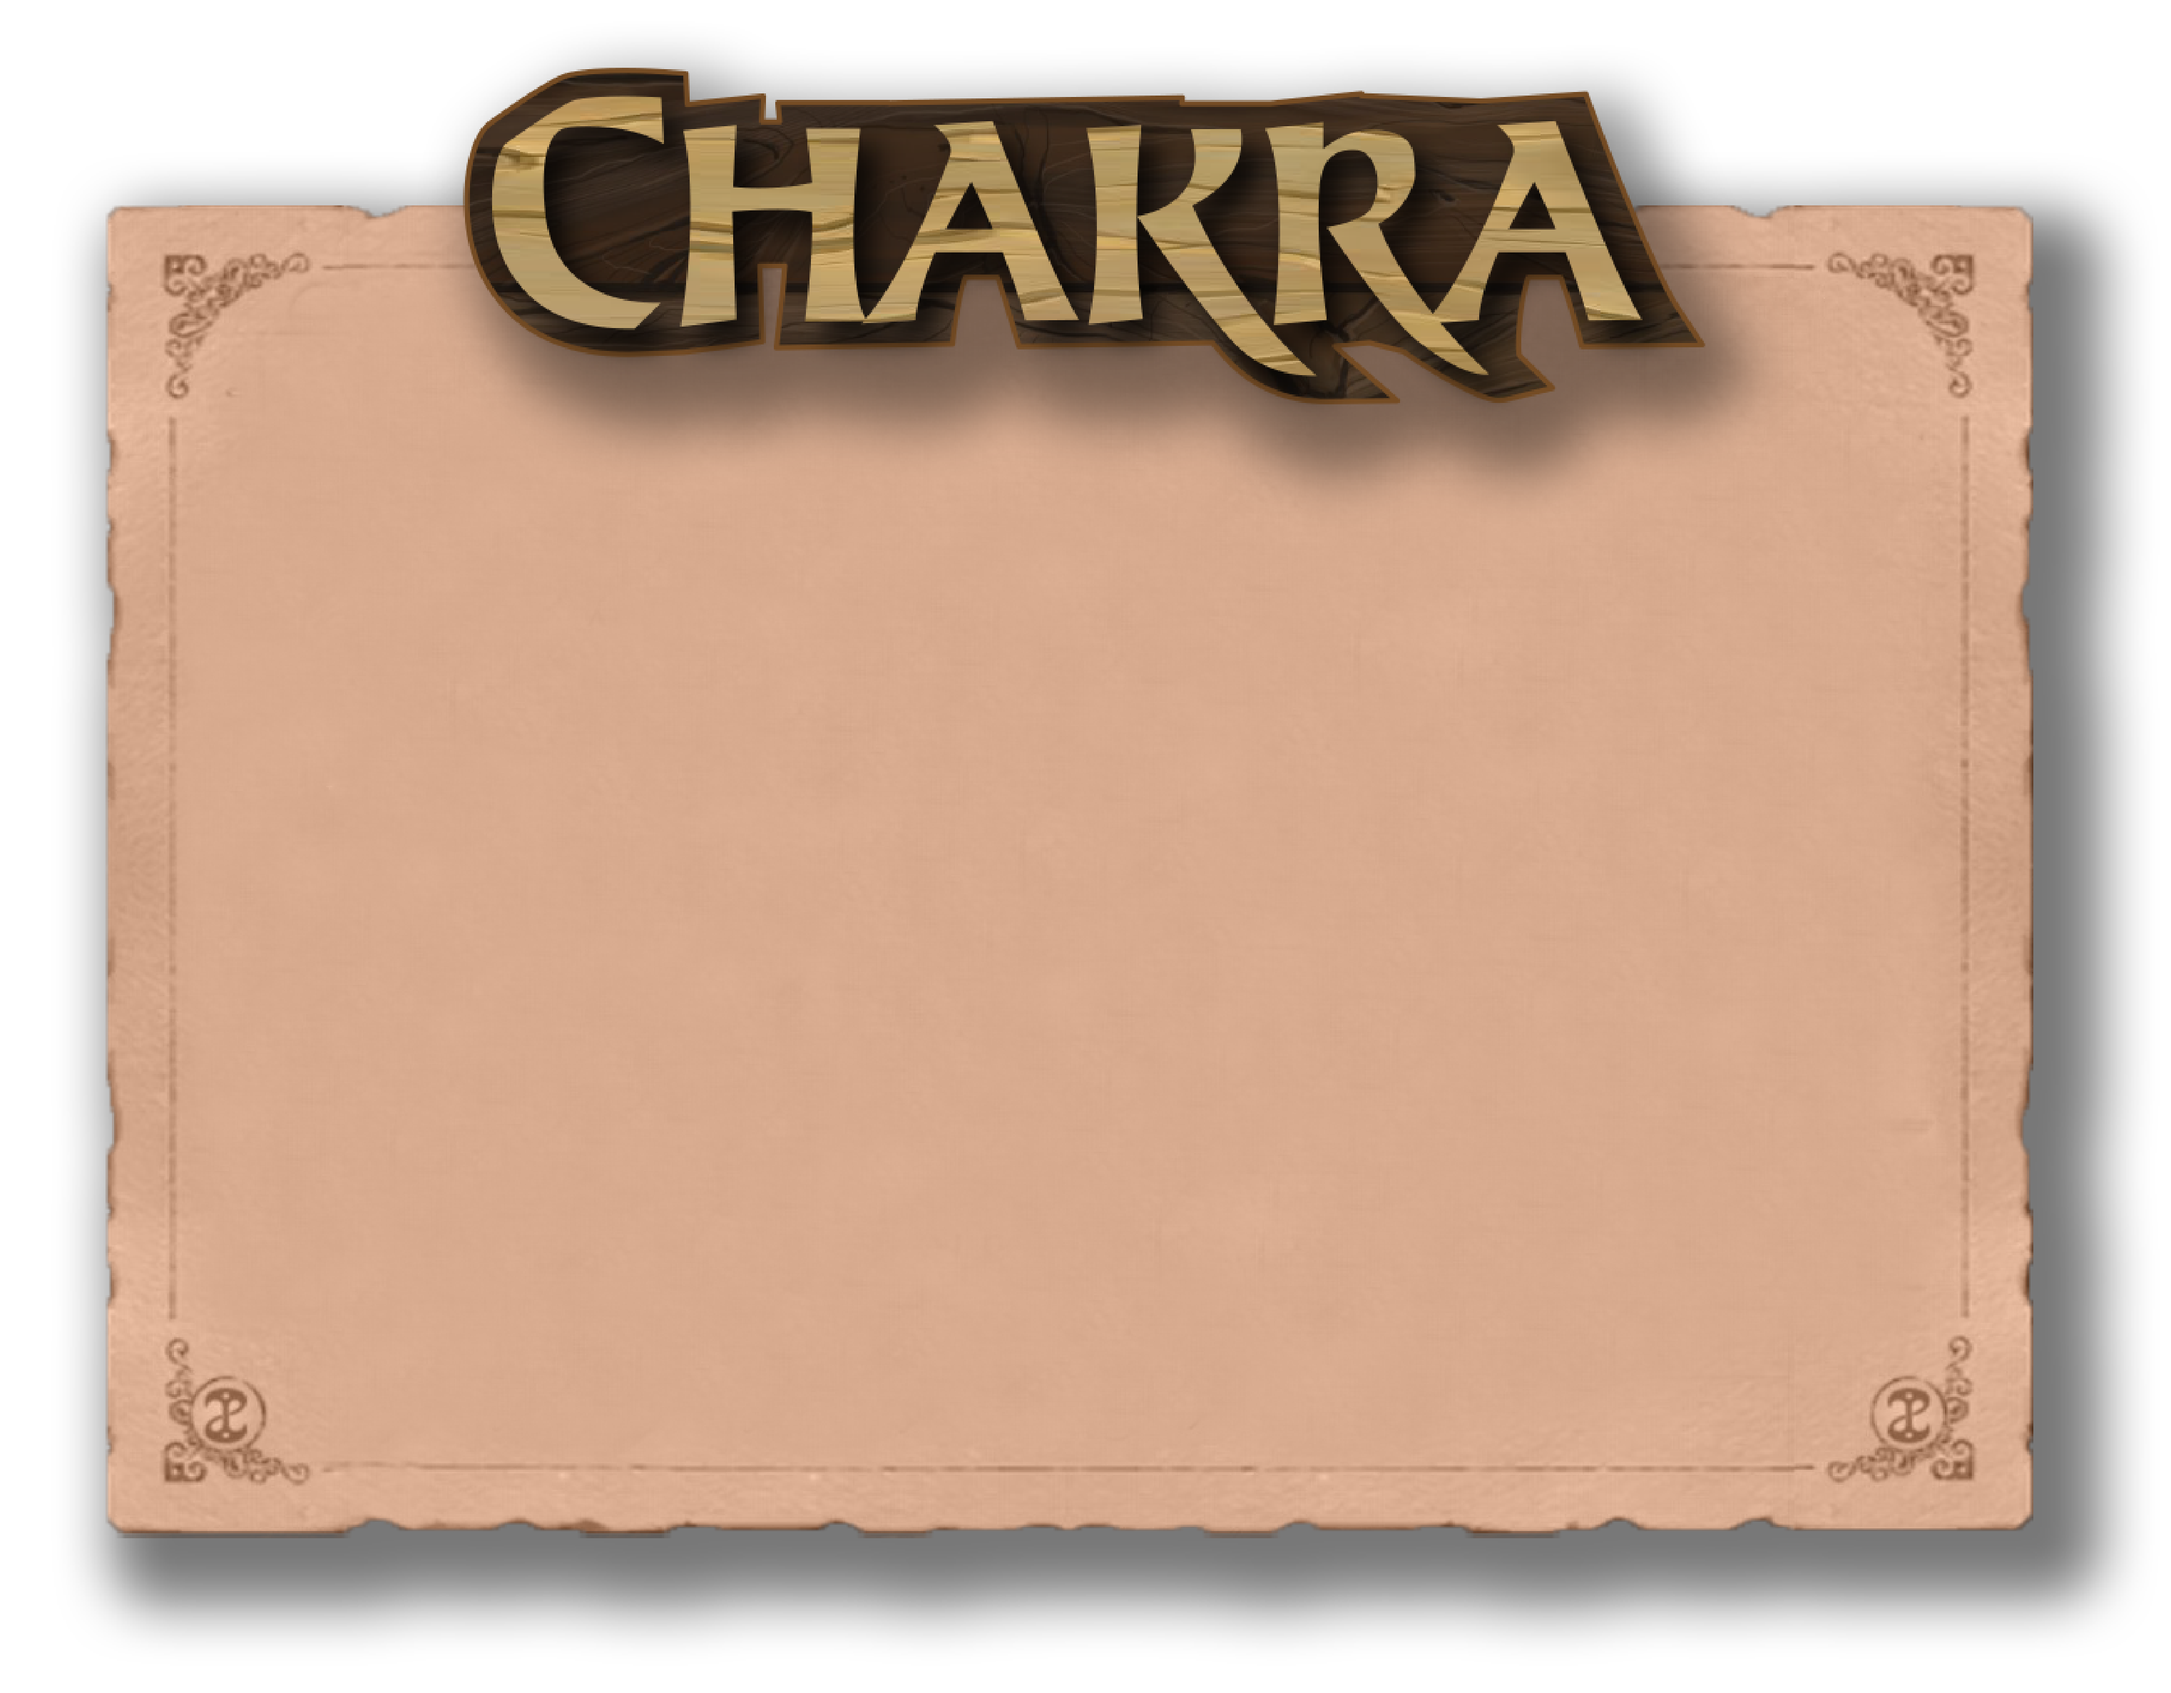
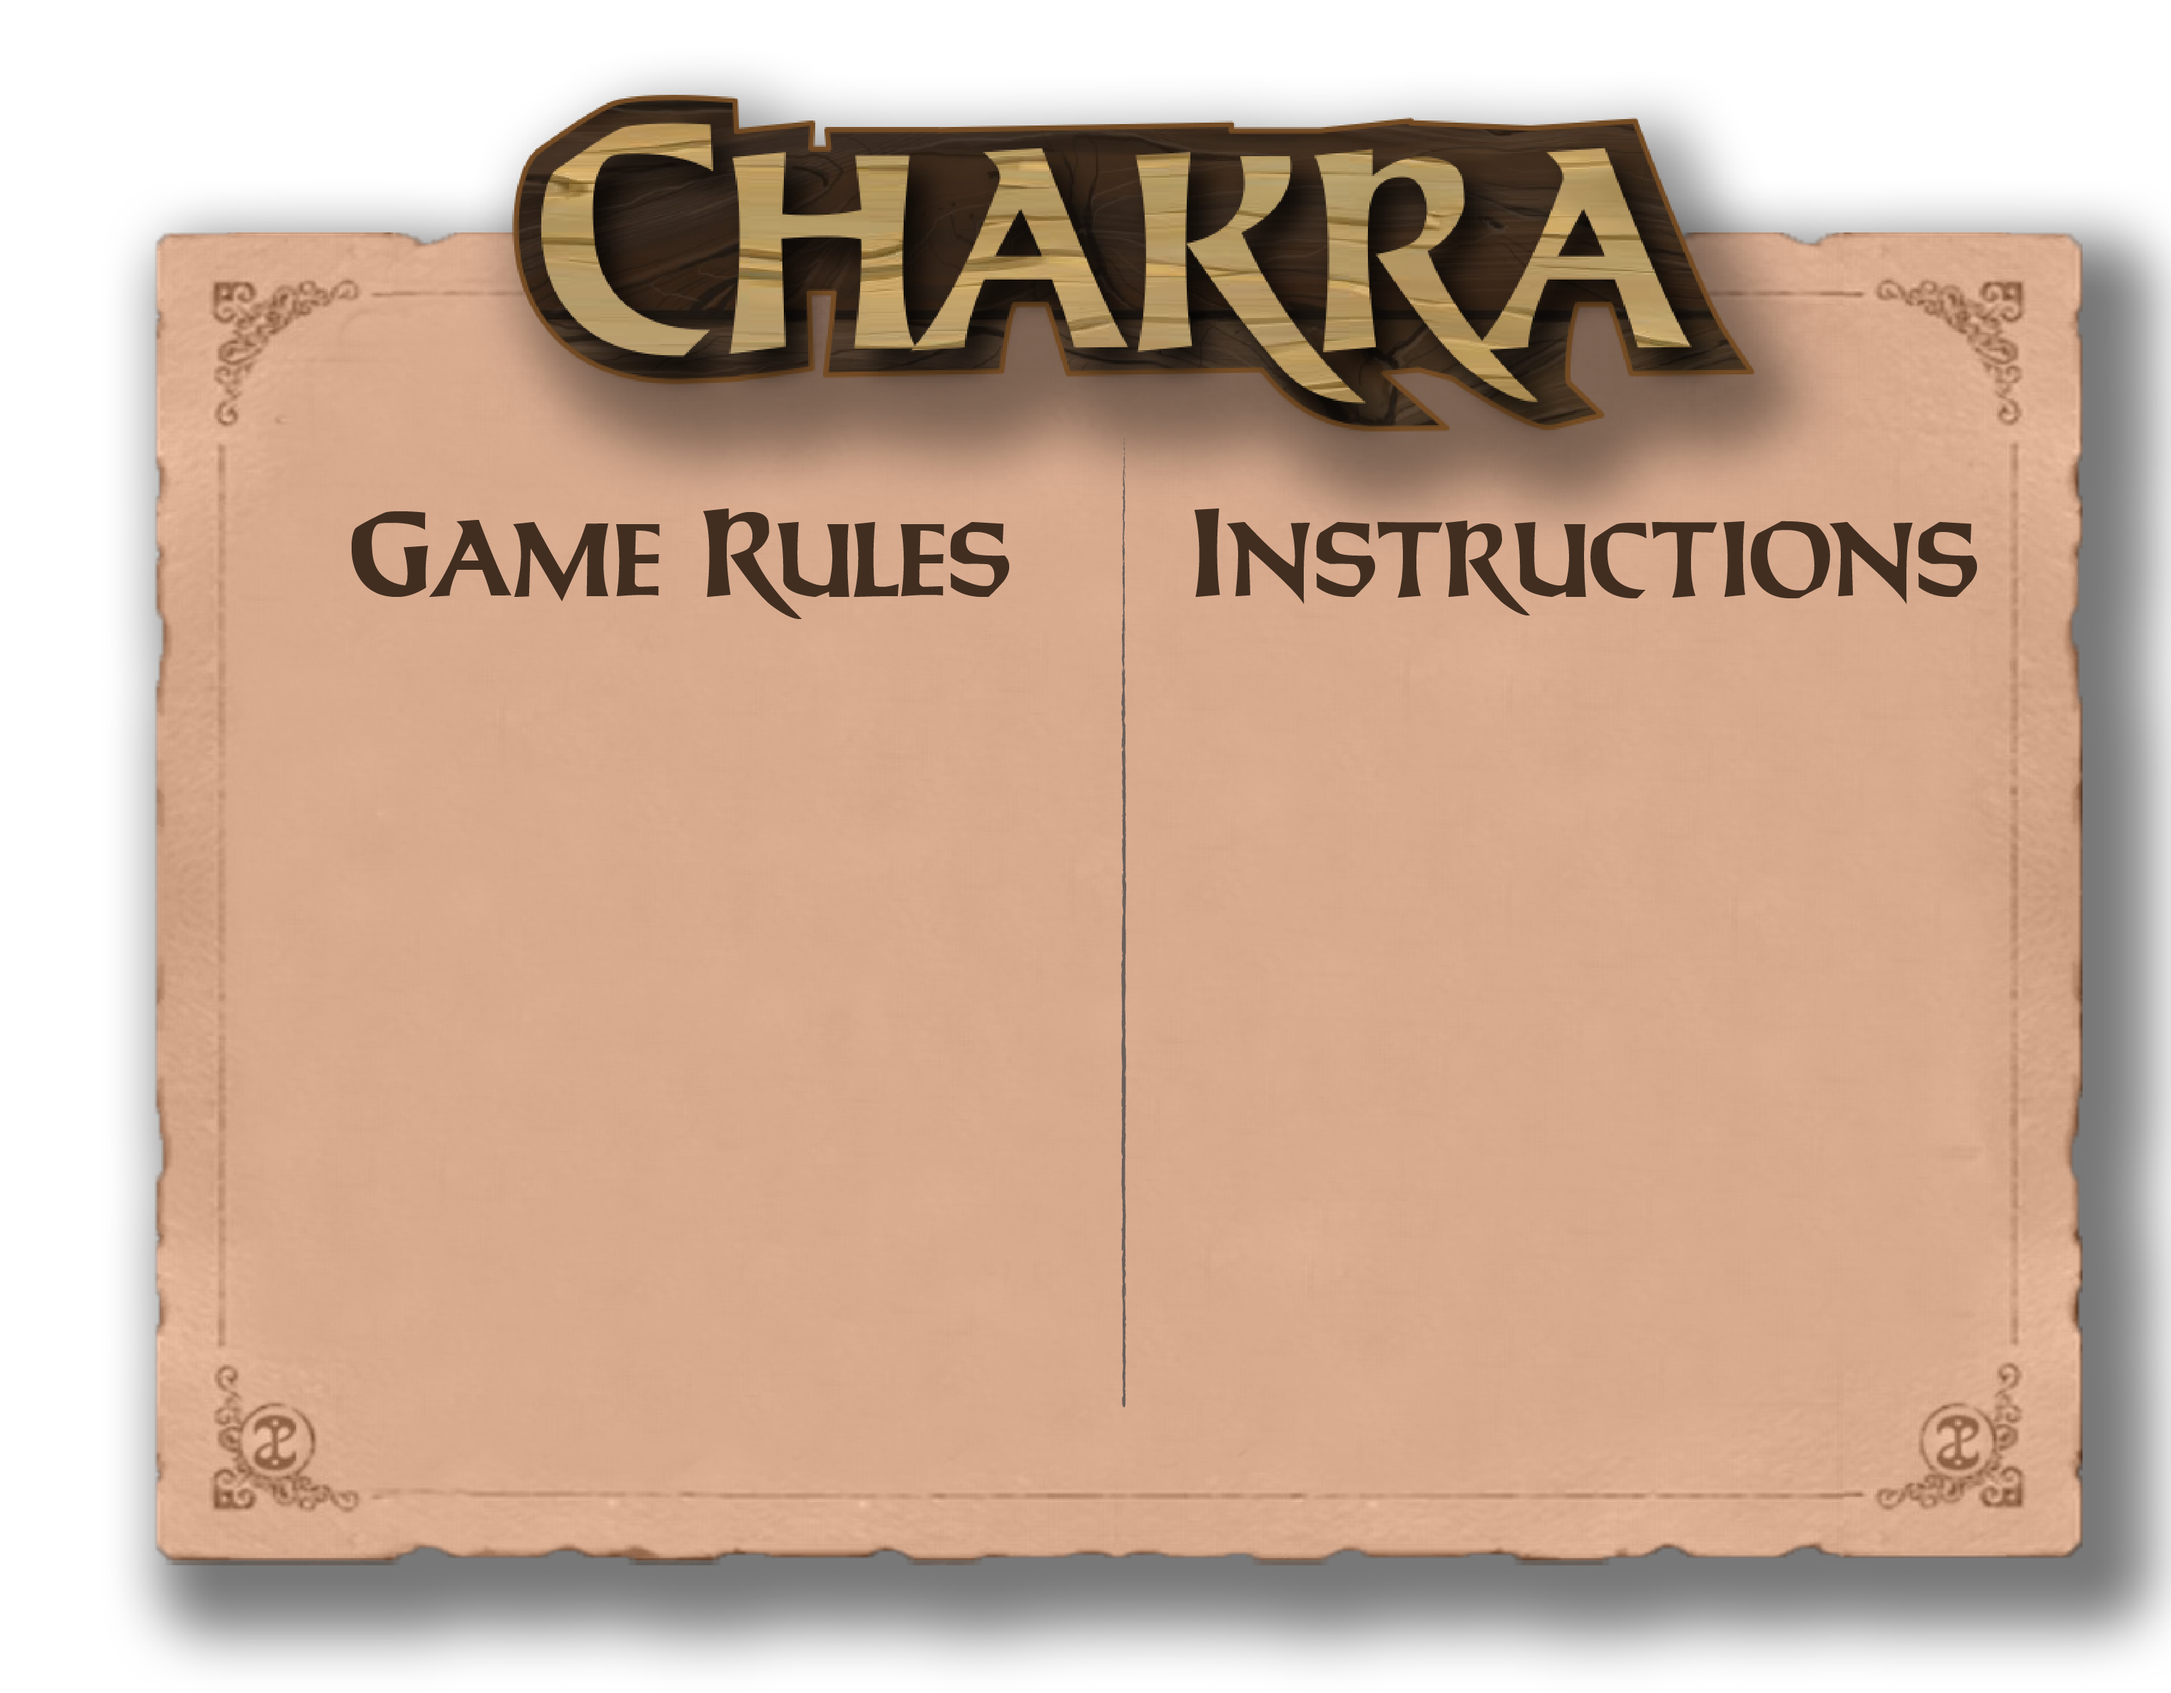
Landing page WIP

Changed region(s): [[0.0312, 0.0312, 1.0, 0.9975]]

diff --git a/index.html b/index.html
@@ -1,43 +1,81 @@
-<!doctype html>
+<!DOCTYPE html>
 <html lang="en">
   <head>
-    <meta charset="utf-8">
-    <meta name="viewport" content="width=device-width, initial-scale=1">
+    <meta charset="utf-8" />
+    <meta name="viewport" content="width=device-width, initial-scale=1" />
 
-    <link rel="stylesheet" href="https://maxcdn.bootstrapcdn.com/bootstrap/4.0.0/css/bootstrap.min.css" integrity="sha384-Gn5384xqQ1aoWXA+058RXPxPg6fy4IWvTNh0E263XmFcJlSAwiGgFAW/dAiS6JXm" crossorigin="anonymous">
-    <link href="https://cdn.jsdelivr.net/npm/bootstrap@5.0.0-beta3/dist/css/bootstrap.min.css" rel="stylesheet" integrity="sha384-eOJMYsd53ii+scO/bJGFsiCZc+5NDVN2yr8+0RDqr0Ql0h+rP48ckxlpbzKgwra6" crossorigin="anonymous">
+    <link
+      rel="stylesheet"
+      href="https://maxcdn.bootstrapcdn.com/bootstrap/4.0.0/css/bootstrap.min.css"
+      integrity="sha384-Gn5384xqQ1aoWXA+058RXPxPg6fy4IWvTNh0E263XmFcJlSAwiGgFAW/dAiS6JXm"
+      crossorigin="anonymous"
+    />
+    <link
+      href="https://cdn.jsdelivr.net/npm/bootstrap@5.0.0-beta3/dist/css/bootstrap.min.css"
+      rel="stylesheet"
+      integrity="sha384-eOJMYsd53ii+scO/bJGFsiCZc+5NDVN2yr8+0RDqr0Ql0h+rP48ckxlpbzKgwra6"
+      crossorigin="anonymous"
+    />
     <link href="style.css" rel="stylesheet" />
-    <link rel="preconnect" href="https://fonts.gstatic.com">
-    <link href="https://fonts.googleapis.com/css2?family=Forum&display=swap" rel="stylesheet">  
+    <link rel="preconnect" href="https://fonts.gstatic.com" />
+    <link
+      href="https://fonts.googleapis.com/css2?family=Forum&display=swap"
+      rel="stylesheet"
+    />
     <title>Chakra!</title>
   </head>
   <body>
-
     <div id="background-wrapper" class="container-fluid">
-    
-      <!-- Rules Not yet done
-      <div id='inner-background-wrapper'></div> -->
+      <!--Chakra Instruction-->
       
+        <div id="inner-background-wrapper">
+          <img id="chakra-image" src="assets/rules.svg">
+          <p>Beat the computer with your personal chakra.
+            Lorem ipsum dolor sit amet, consectetuer adipis.</p>
+
+            <form>
+              <div class="form-group">
+                <label for="exampleInputEmail1">Email address</label>
+                <input type="email" class="form-control" id="exampleInputEmail1" aria-describedby="emailHelp" placeholder="Enter email">
+                <small id="emailHelp" class="form-text text-muted">We'll never share your email with anyone else.</small>
+              </div>
+        </div>
+      
+
+      <!--Start of main Coding-->
       <p id="name-out-com">COM</p>
       <p id="name-out-player">PLAYER 1</p>
 
       <div id="name-wrapper">
-      <p class="name">COM</p>
-      <p id="player-name" class="name">PLAYER 1</p>
-    </div>
-      
-      <div id='progress-bar-wrapper'>
-      <div class="progress progress-row-1 progress-bar bg-warning justify-content-end">
-        <div class="progress-bar progress-bar-striped progress-bar-animated" role="progressbar" aria-valuenow="75" aria-valuemin="0" aria-valuemax="100" style="width: 75%"></div>
+        <p class="name">COM</p>
+        <p id="player-name" class="name">PLAYER 1</p>
       </div>
 
-      
-      <div class="progress progress-row-2 progress-bar bg-warning">
-        <div class="progress-bar progress-bar-striped progress-bar-animated" role="progressbar" aria-valuenow="75" aria-valuemin="0" aria-valuemax="100" style="width: 75%"></div>
+      <div id="progress-bar-wrapper">
+        <div
+          class="progress progress-row-1 progress-bar bg-warning justify-content-end"
+        >
+          <div
+            class="progress-bar progress-bar-striped progress-bar-animated"
+            role="progressbar"
+            aria-valuenow="75"
+            aria-valuemin="0"
+            aria-valuemax="100"
+            style="width: 75%"
+          ></div>
+        </div>
+
+        <div class="progress progress-row-2 progress-bar bg-warning">
+          <div
+            class="progress-bar progress-bar-striped progress-bar-animated"
+            role="progressbar"
+            aria-valuenow="75"
+            aria-valuemin="0"
+            aria-valuemax="100"
+            style="width: 75%"
+          ></div>
+        </div>
       </div>
-
-    </div>
-
 
       <div id="cell-wrapper">
         <div class="card-row">
@@ -54,13 +92,14 @@
           <div class="cell"></div>
         </div>
       </div>
-        
     </div>
 
-
-
-      <script src="https://cdnjs.cloudflare.com/ajax/libs/jquery/3.6.0/jquery.min.js"></script>
-      <script src="https://cdn.jsdelivr.net/npm/bootstrap@5.0.0-beta3/dist/js/bootstrap.bundle.min.js" integrity="sha384-JEW9xMcG8R+pH31jmWH6WWP0WintQrMb4s7ZOdauHnUtxwoG2vI5DkLtS3qm9Ekf" crossorigin="anonymous"></script>
-      <script src="main.js"></script>
+    <script src="https://cdnjs.cloudflare.com/ajax/libs/jquery/3.6.0/jquery.min.js"></script>
+    <script
+      src="https://cdn.jsdelivr.net/npm/bootstrap@5.0.0-beta3/dist/js/bootstrap.bundle.min.js"
+      integrity="sha384-JEW9xMcG8R+pH31jmWH6WWP0WintQrMb4s7ZOdauHnUtxwoG2vI5DkLtS3qm9Ekf"
+      crossorigin="anonymous"
+    ></script>
+    <script src="main.js"></script>
   </body>
 </html>

diff --git a/style.css b/style.css
@@ -5,17 +5,43 @@
     width: 100%;
     height: 100vh;
     position: relative;
+    
 }
 
-/* Rules not yet done
+
 #inner-background-wrapper{
     background: url(assets/map.png);
     background-size: contain;
     background-repeat: no-repeat;
-    width: 100%;
+    width: 80%;
     height: 100vh;
-    display: none;
-} */
+    margin: 0 auto;
+
+    display: flex;
+    align-items: center;
+    justify-content: center;
+    
+    
+    /* display: none; */
+}
+
+
+p {
+    color: #534741;
+    font-family: 'Forum', cursive;
+    font-size: 30px;
+    /* width: 30%; */
+    text-align: center;
+    /* margin-right: 50px; */
+    /* line-height: 1.2em; */
+}
+
+#chakra-image{
+    width: 400px;
+    height: 400px;
+    /* margin-right: 90px; */
+    /* margin-top: 180px; */
+}
 
 #cell-wrapper {
     display: flex;
@@ -28,7 +54,7 @@
 .card-row{
     width: 80%;
     text-align: center;
-    margin: -10px 0;
+    margin: -20px 0;
 }
 
 .cell{
@@ -75,6 +101,7 @@
     font-family: 'Forum', cursive;
     font-size: 30px;
     width: 50%;
+    text-align: left;
 }
 
 #player-name{
